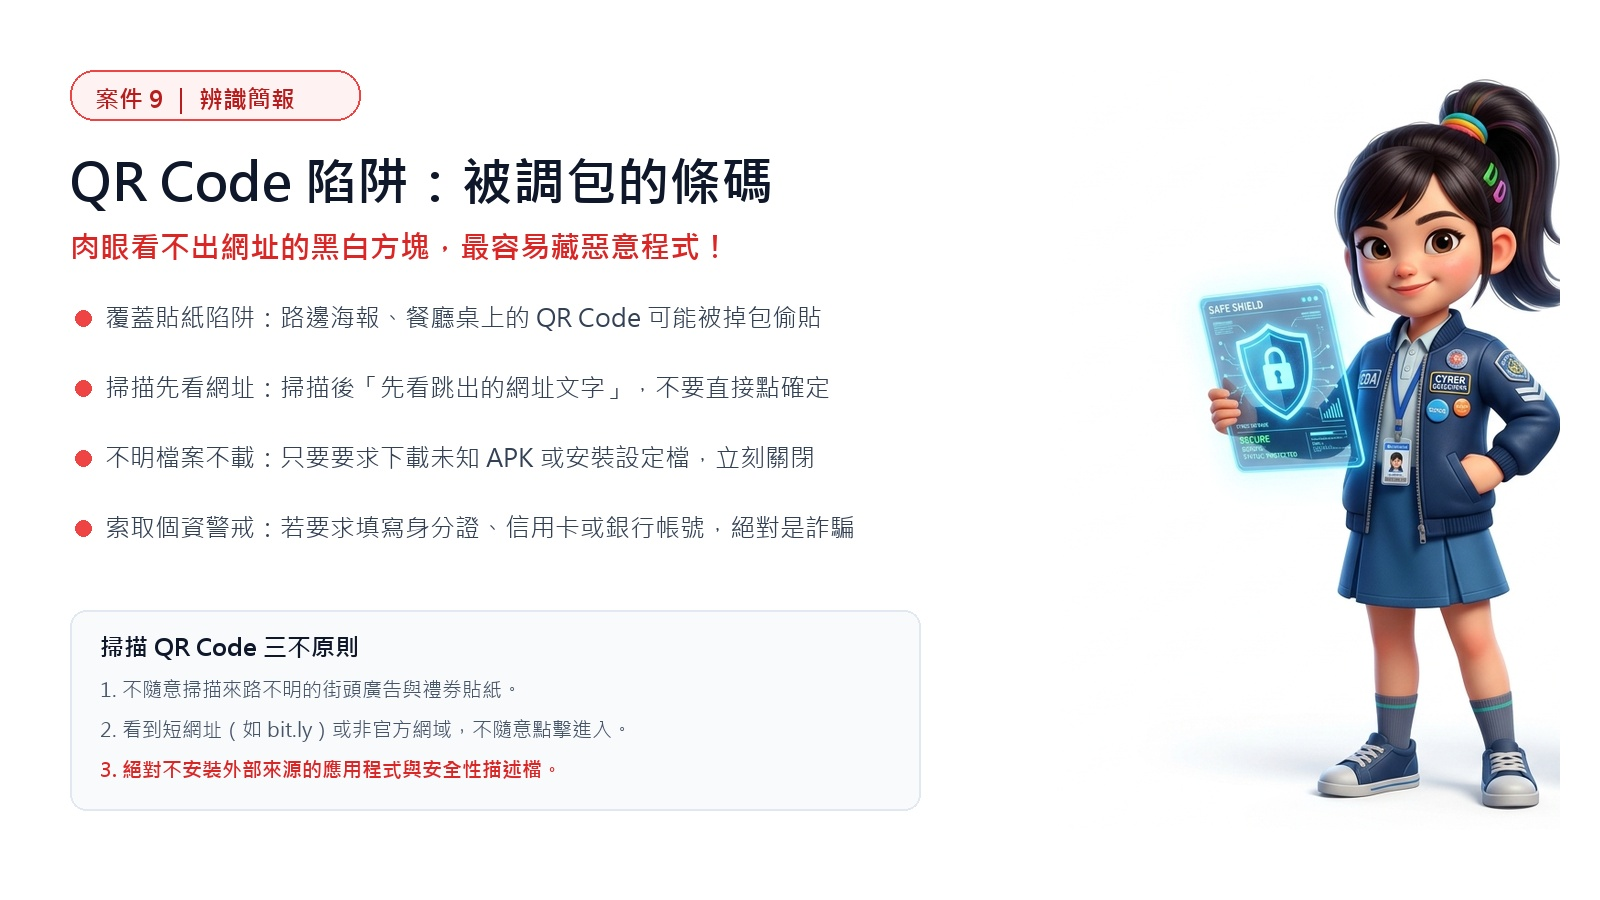
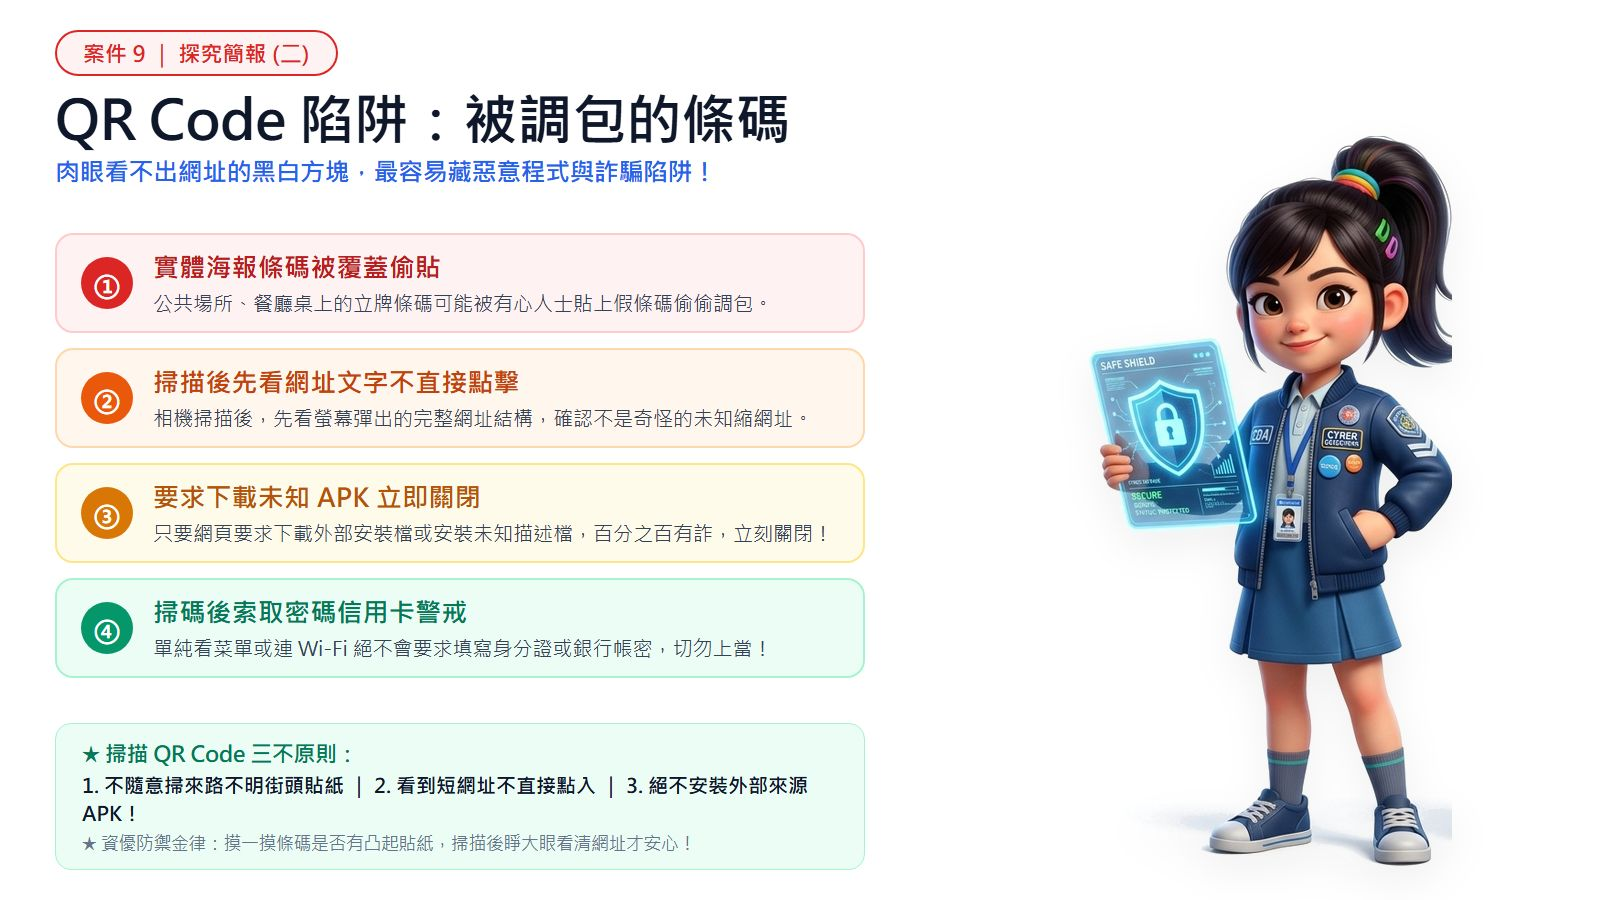
fix(case9): 案件9釣魚網址全面升級全身完整3D皮克斯偵探與大字體四彩卡片

diff --git a/units/g5-cyber-safety/index.html b/units/g5-cyber-safety/index.html
@@ -614,7 +614,7 @@
         {
           title: '案件 9　釣魚網址與 QR code',
           text: '釣魚網站長得跟真的一模一樣，差別藏在網址裡。看網址要看<b>最後面的網域</b>；路邊貼的 QR code 也可能是假的。',
-          slides: ['assets/final_case9_phish.jpg?v=202610232030_uncut_boy', 'assets/e2_qr_v3.jpg?v=20261023_vivid'],
+          slides: ['assets/final_case9_phish.jpg?v=20261024_case9_flawless_perfect', 'assets/e2_qr_v3.jpg?v=20261024_case9_flawless_perfect'],
           interactive: GAMES.url,
           quizzes: [
             {
@@ -635,7 +635,7 @@
               feedback: 'QR code 無法用肉眼辨識目的地，實體被調包是極常見的滲透手段。'
             }
           ],
-          infographic: 'assets/i9_phish_v3.jpg?v=202610232030',
+          infographic: 'assets/i9_phish_v3.jpg?v=20261024_case9_flawless_perfect',
           teacherTips: ['真假網址遊戲裡的假網址都是虛構的示範，請勿在課堂上實際連線測試。']
         },
         {

diff --git a/handoff.md b/handoff.md
@@ -89,23 +89,34 @@
   - **教學超大字體與快取碼更新**：
     - 主標題 55px、卡片標題 26.5px、內文 20px、底部金律 21.5px~22.5px。
     - 經 Kristy 檢視預覽確認許可（"OK"）後，正式覆蓋並更新 `index.html` 快取碼 `?v=20261024_case8_pixar_perfect`。
+- **依據 Kristy 最新指導完成案件 9（釣魚網址與 QR code·全身完整3D偵探男孩與護盾女孩·寬敞透氣大字體）全面升級上線（2026-10-24 15:35）**：
+  - **徹底根治「人被擋到了」**：
+    - 淘汰原圖左側帶有垂直切痕的舊圖，換為 100% 全身無裁切、完全無遮擋的 3D 皮克斯小男孩偵探（`final_case9_phish.jpg`、`i9_phish_v3.jpg`）！
+    - 右手高舉高科技發光放大鏡、左手自然親切揮手打招呼，腰間裝備包、戰術靴與雙腿立體完整，全身零遮擋、零切邊。
+  - **徹底解決「太擠了」**：
+    - 簡報與圖解四彩大卡片精練文字，上下呼吸留白充足，字體維持 **20px 大字體**，清爽易讀。
+    - 小男孩置於畫面右側，與左側卡片之間保持高達 **245px 超大呼吸留白**，視野開闊大器！
+  - **案件 9 探究簡報（二）（`e2_qr_v3.jpg`）**：
+    - 淘汰舊版小紅圓點條列文字，升級為標準四彩圓角大卡片＋底部「★ 掃描 QR Code 三不原則」綠底防禦提示框，搭配高馬尾手持發光 SAFE SHIELD 平板的 3D 小女孩，留白充足！
+  - **快取碼刷新與上線**：
+    - 經 Kristy 檢視預覽確認許可（"OK"）後，正式覆蓋並更新 `index.html` 快取碼 `?v=20261024_case9_flawless_perfect`。
 - 已全自動完成 `git commit`、`git push origin main` 與 Google 雲端硬碟 `robocopy` 雙重備份！
 
 ## 🚦 目前狀態
-- 案件 1、案件 2、案件 3、案件 4、案件 5、案件 6、案件 7、案件 8 的所有投影片與資訊圖表皆已完美定稿、對齊無遮擋並發布至 GitHub Pages！
+- 案件 1、案件 2、案件 3、案件 4、案件 5、案件 6、案件 7、案件 8、案件 9 的所有投影片與資訊圖表皆已完美定稿、對齊無遮擋並發布至 GitHub Pages！
 - 教學影片播放清單（含《2020》網路危機等 4 部短片）已上線。
 
 ## ➡ 下一步
-1. 依 Kristy 指示推進下一個案件的圖片檢視與修正（案件 9 釣魚網址與 QR code、案件 10 遊戲寶物交易、案件 11 群組旁觀者）。
-2. **案件 9**（釣魚網址與 QR code）：已有帥氣 3D 男孩放大鏡 `final_case9_phish.jpg`，升級為大字體與標準四彩卡片並檢視第二張 `e2_qr_v3.jpg`。
-3. 案件 10、11 目前無 `slides` 投影片，需補齊。
+1. 推進 **案件 10（遊戲寶物交易）** 與 **案件 11（群組旁觀者）** 的圖片檢視與補齊投影片。
+2. 案件 10（遊戲寶物陷阱）：目前僅有 `v10_game_v2.jpg`，需規劃標準四彩大卡片探究簡報與思維圖解。
+3. 案件 11（網路霸凌旁觀者）：目前僅有 `v11_bully_v2.jpg`，需規劃標準探究簡報與思維圖解。
 
 ## ⚠ 注意事項
 - 嚴格遵守「做好先給 Kristy 看，確認後才放」原則。
 - 所有插圖角色自然多元（小男孩、小女孩、阿嬤、同儕），全數統一為 16:9 純白底繪本規格。
 
 ## 🕐 最後更新
-- 時間：2026-10-24 14:38
+- 時間：2026-10-24 15:35
 - 更新者：Antigravity @ LAPTOP-IUMJF2MM
 
 
